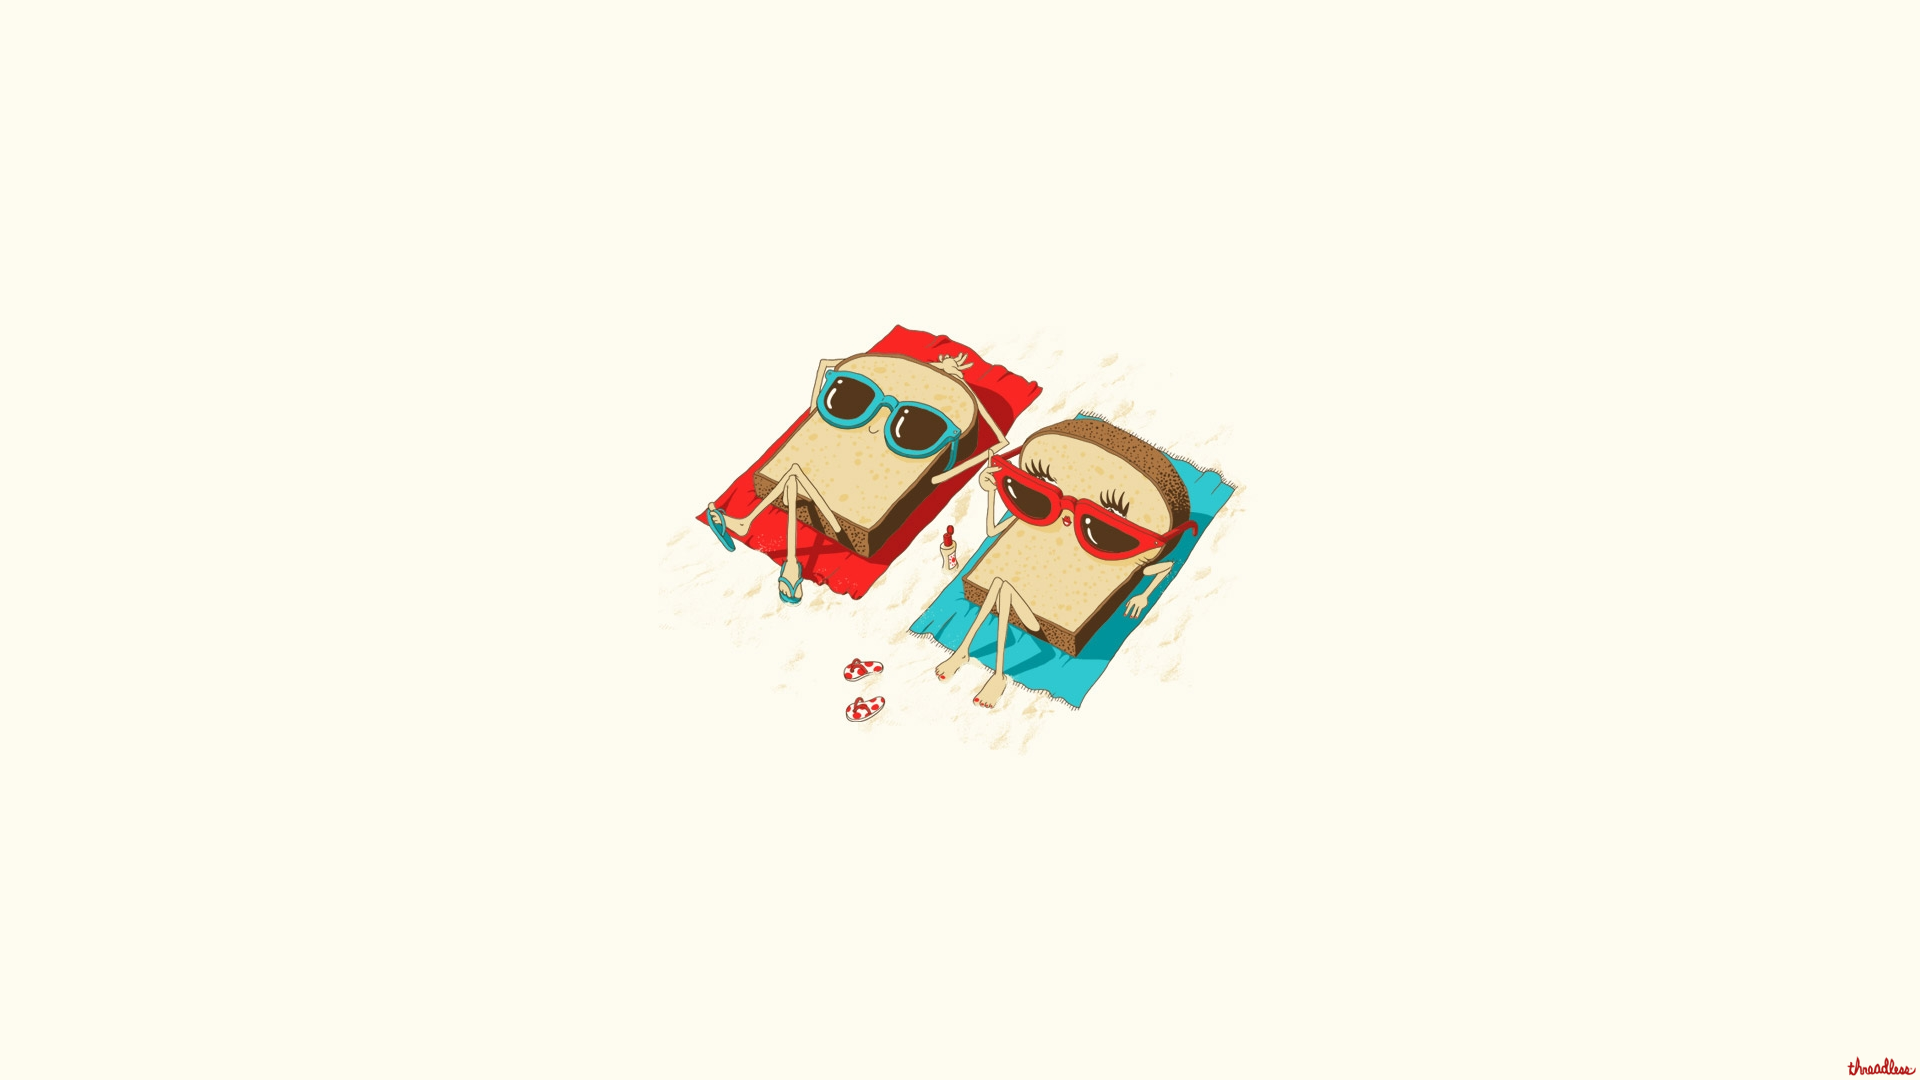
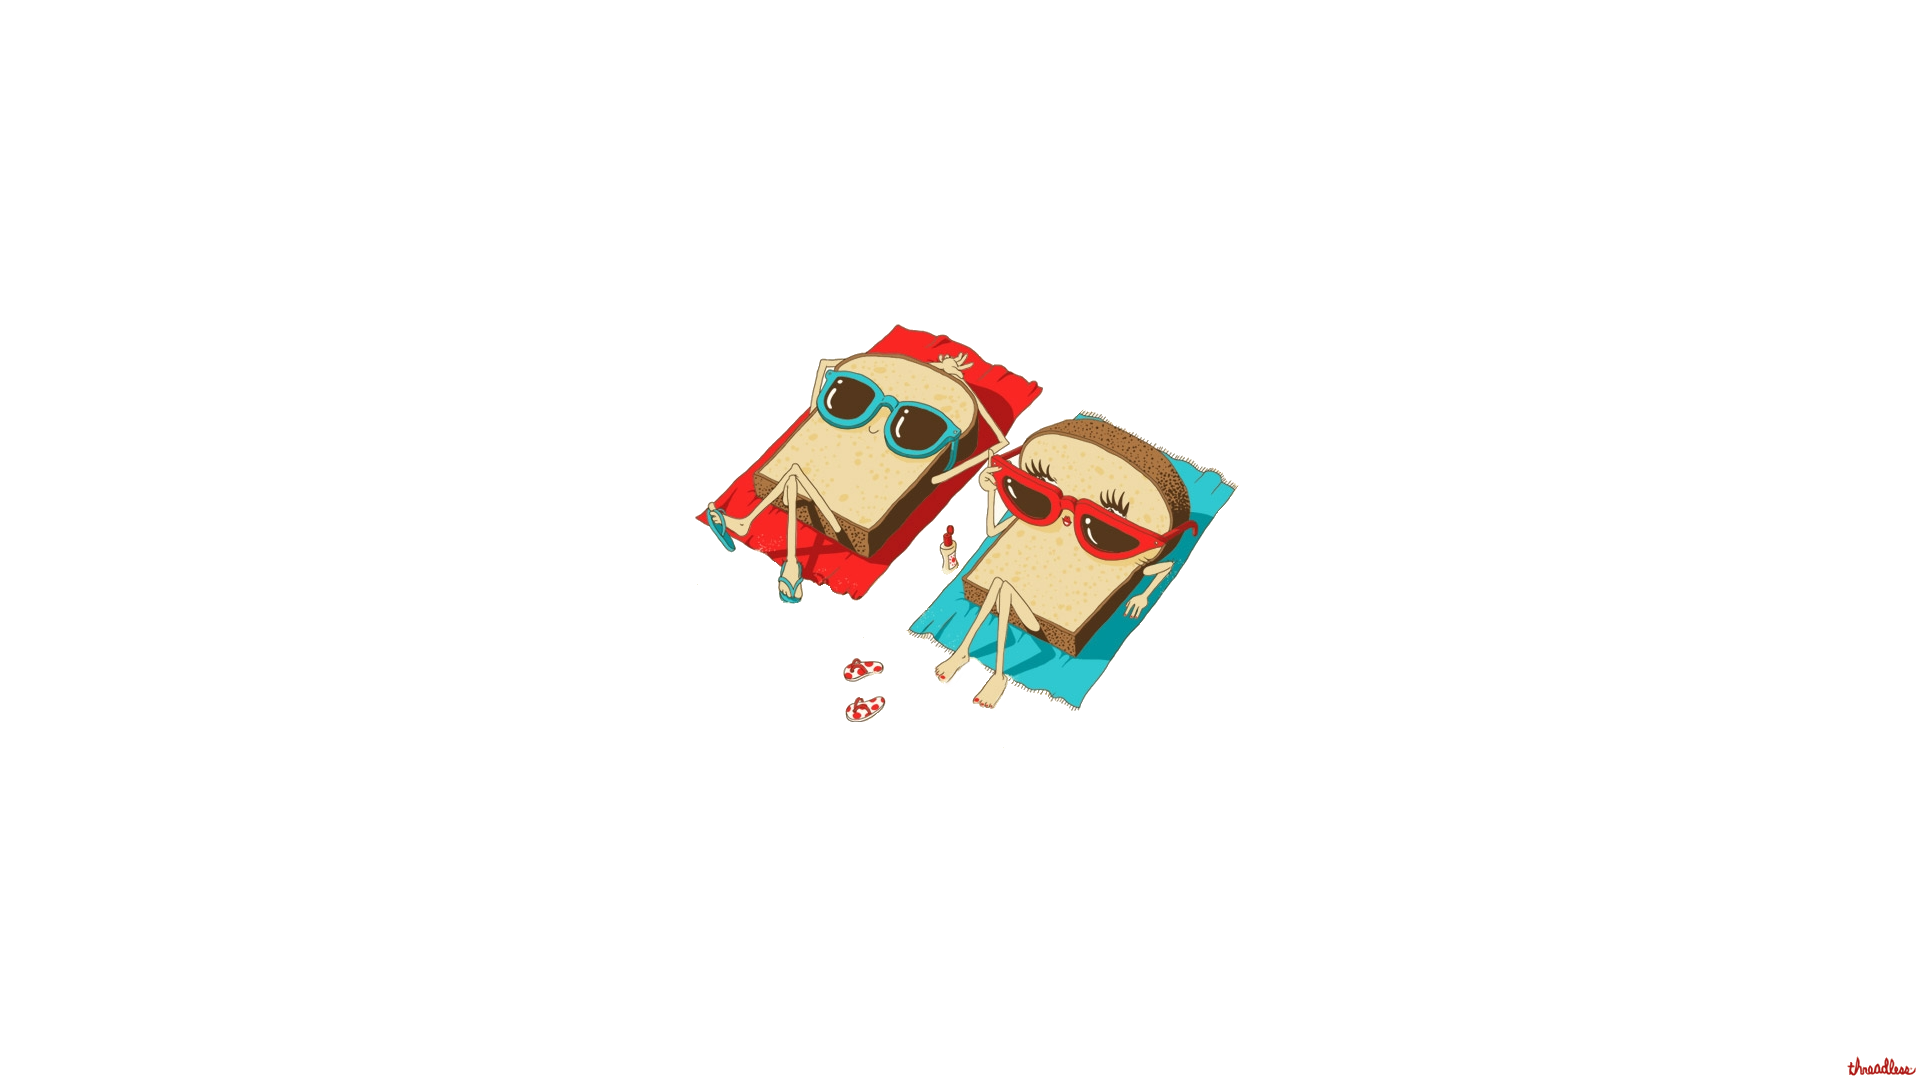
delete blur and clear toast

diff --git a/css/main.css b/css/main.css
@@ -168,11 +168,6 @@ img {
 .playa {
   background: url('../inc/image/toastplage.png')  no-repeat center center fixed;
   height: 600px;
-  -webkit-filter: blur(5px);
-  -moz-filter: blur(12px);
-  -o-filter: blur(12px);
-  -ms-filter: blur(12px);
-  filter: blur(12px);
 }
 
 .video {
